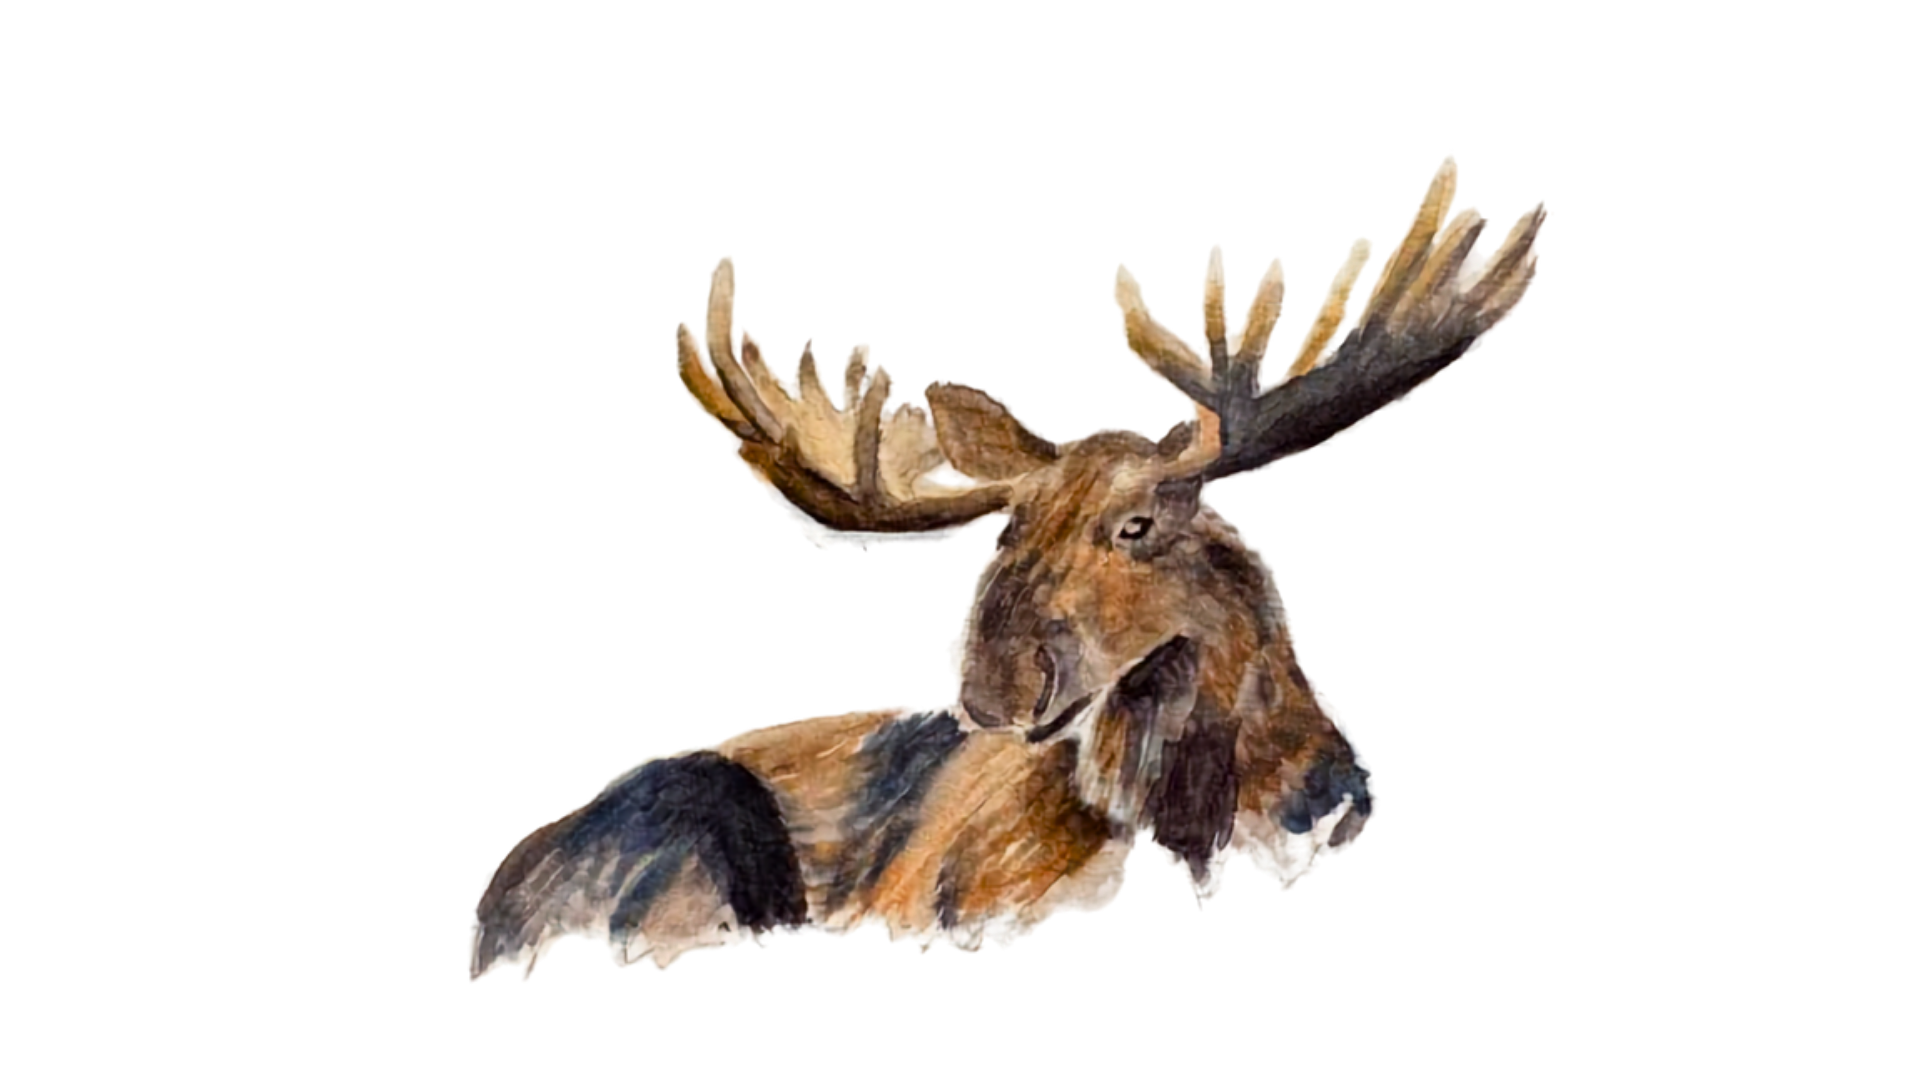
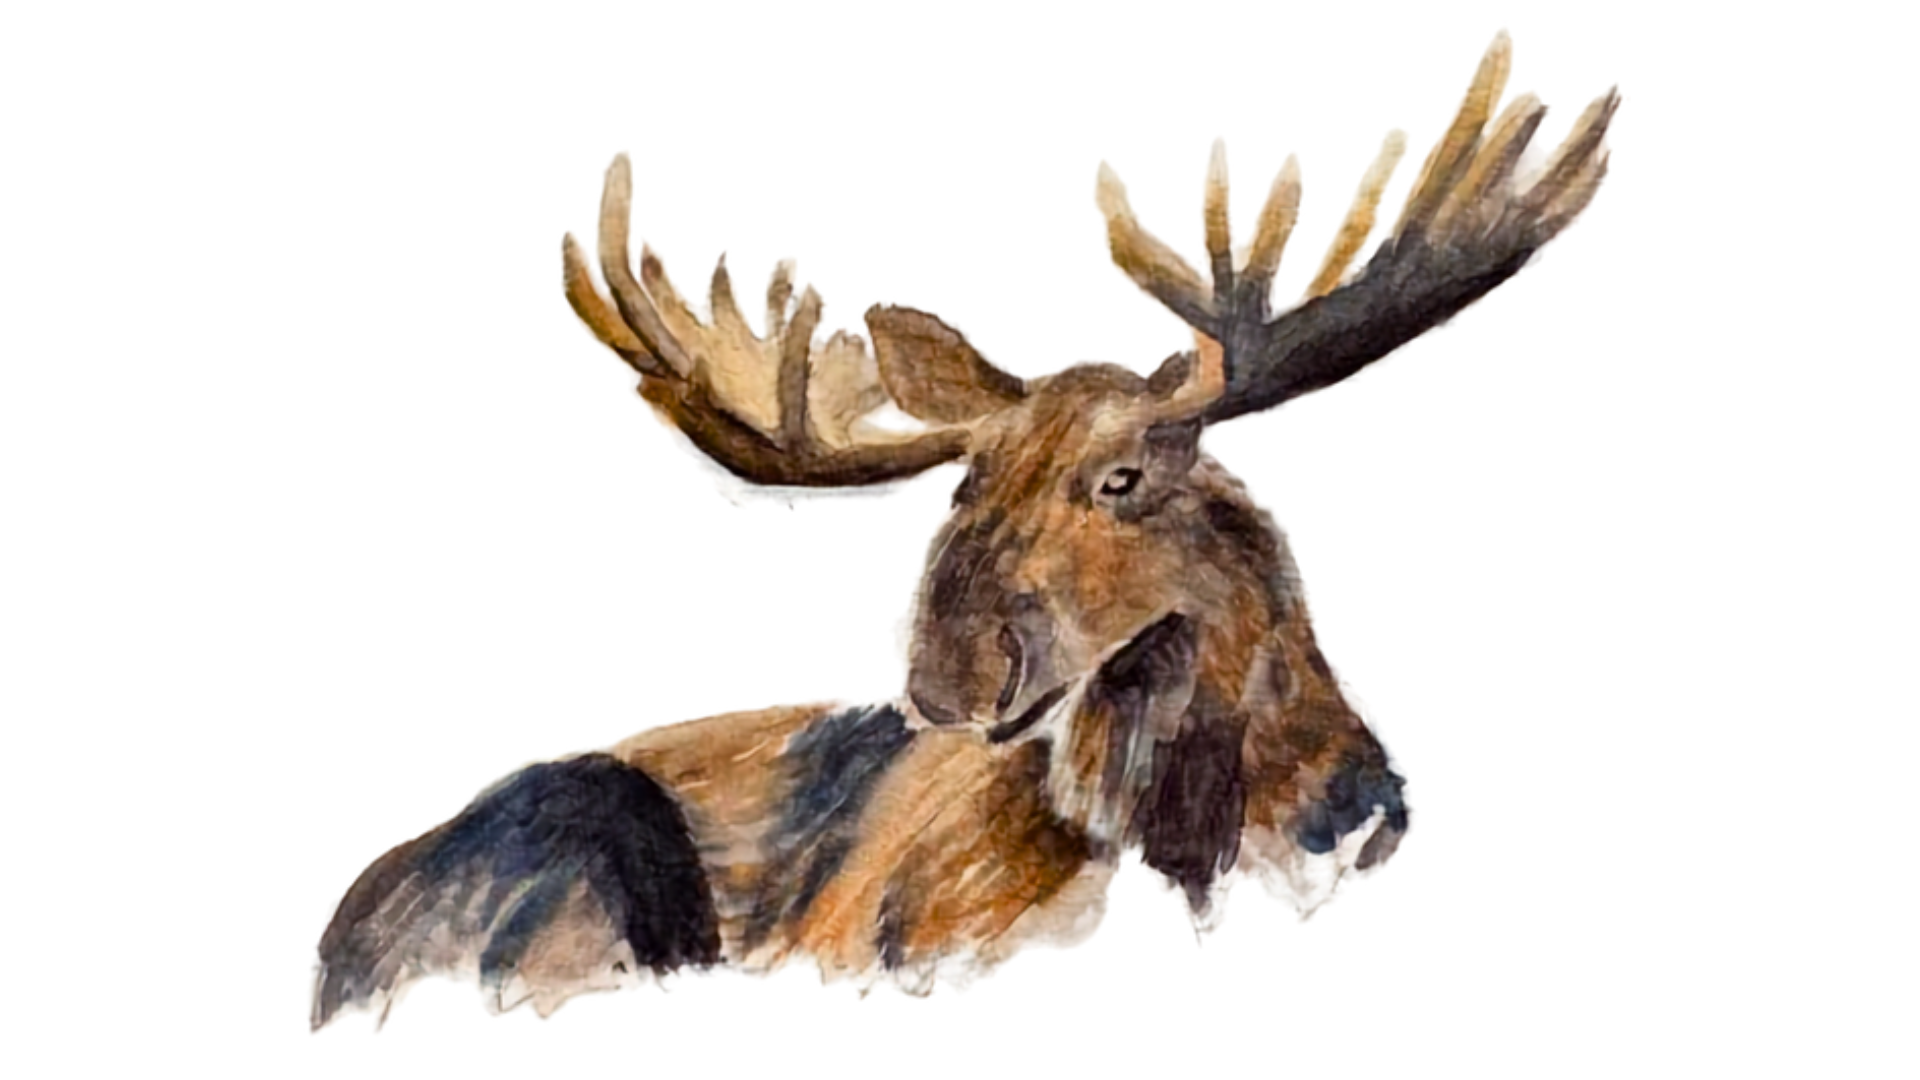
Add new gallery paintings and update existing artwork.
Adds nine new watercolor pieces, swaps in updated PNG versions for Great Horned Owl, Moose, and Spring Peeper, and removes duplicate gallery entries.

Changed region(s): [[0.1562, 0.0306, 0.8438, 0.9472]]

diff --git a/app/data/gallery.ts b/app/data/gallery.ts
@@ -11,13 +11,20 @@ export const galleryItems: GalleryItem[] = [
   { src: '/images/cardinal-PT.jpg', alt: 'Cardinal watercolor painting', title: 'Cardinal' },
   { src: '/images/black-bear-cub-PT.jpg', alt: 'Black Bear Cub watercolor painting', title: 'Black Bear Cub' },
   { src: '/images/red-tailed-hawk.jpg', alt: 'Red-Tailed Hawk watercolor painting', title: 'Red-Tailed Hawk' },
-  { src: '/images/great-horned-owl-PT.jpg', alt: 'Great Horned Owl watercolor painting', title: 'Great Horned Owl' },
+  { src: '/images/GreatHornedOwl-PT.png', alt: 'Great Horned Owl watercolor painting', title: 'Great Horned Owl' },
   { src: '/images/gold-finch-PT.jpg', alt: 'American Goldfinch watercolor painting', title: 'American Goldfinch' },
   { src: '/images/robin-PT.jpg', alt: 'Robin watercolor painting', title: 'Robin' },
-  { src: '/images/spring-peeper-PT.jpg', alt: 'Spring Peeper watercolor painting', title: 'Spring Peeper' },
   { src: '/images/indiana-bat-PT.jpg', alt: 'Indiana Bat watercolor painting', title: 'Indiana Bat' },
   { src: '/images/indigo-bunting-PT.jpg', alt: 'Indigo Bunting watercolor painting', title: 'Indigo Bunting' },
   { src: '/images/Pleasant-Peninsula-PT.jpg', alt: 'Pleasant Peninsula landscape watercolor painting', title: 'Pleasant Peninsula' },
-  { src: '/images/Moose-PT.png', alt: 'Moose Watercolor Painting', title: 'Moose' },
-  { src: '/images/Goldfinch-2.0-PT.png', alt: 'Goldfinch Watercolor Painting', title: 'Goldfinch' },
+  { src: '/images/Goldfinch-2.0-PT.png', alt: 'Goldfinch watercolor painting', title: 'Goldfinch' },
+  { src: '/images/Moose-PT.png', alt: 'Western Canada Moose watercolor painting', title: 'Moose' },
+  { src: '/images/BearSleepingBlue-PT.png', alt: 'Sleeping Blue Bear watercolor painting', title: 'Bear Sleeping' },
+  { src: '/images/MallardDuckInPond-PT.png', alt: 'Male Mallard Duck in Pond watercolor painting', title: 'Mallard Duck' },
+  { src: '/images/Bunny-PT.png', alt: 'Cottontail Bunny watercolor painting', title: 'Cottontail Bunny' },
+  { src: '/images/LittleFox-PT.png', alt: 'Young Red Fox watercolor painting', title: 'Little Red Fox' },
+  { src: '/images/Chickadee-PT.png', alt: 'Chickadee watercolor painting', title: 'Chickadee' },
+  { src: '/images/Monarch-PT.png', alt: 'Monarch Butterfly watercolor painting', title: 'Monarch Butterfly' },
+  { src: '/images/FlyingCardinal-PT.png', alt: 'Flying Cardinal watercolor painting', title: 'Flying Cardinal' },
+  { src: '/images/SpringPeeper-PT.png', alt: 'Spring Peeper watercolor painting', title: 'Spring Peeper' },
 ];
